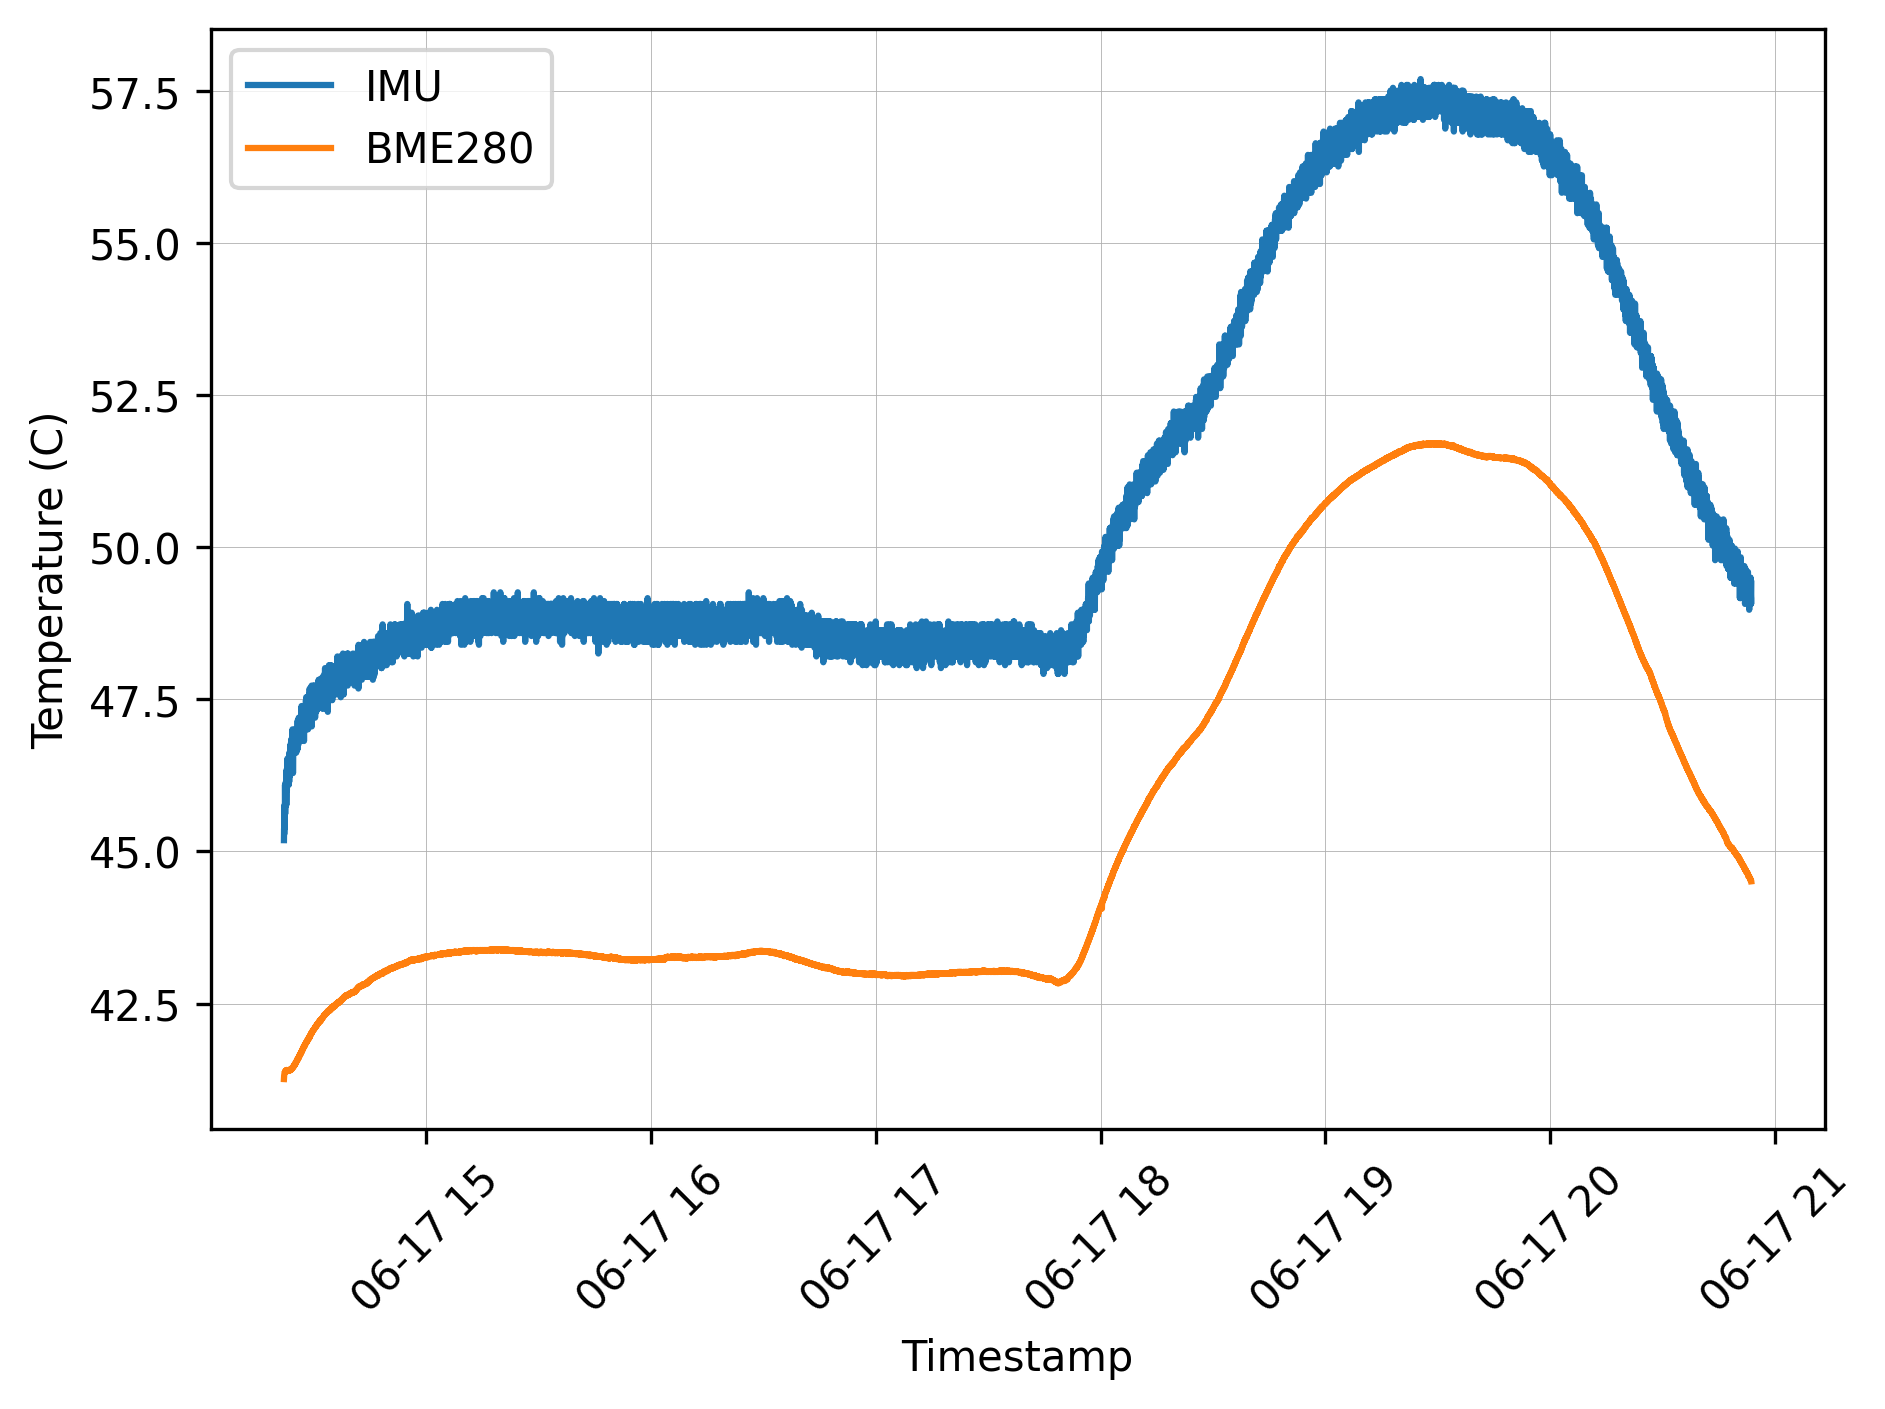
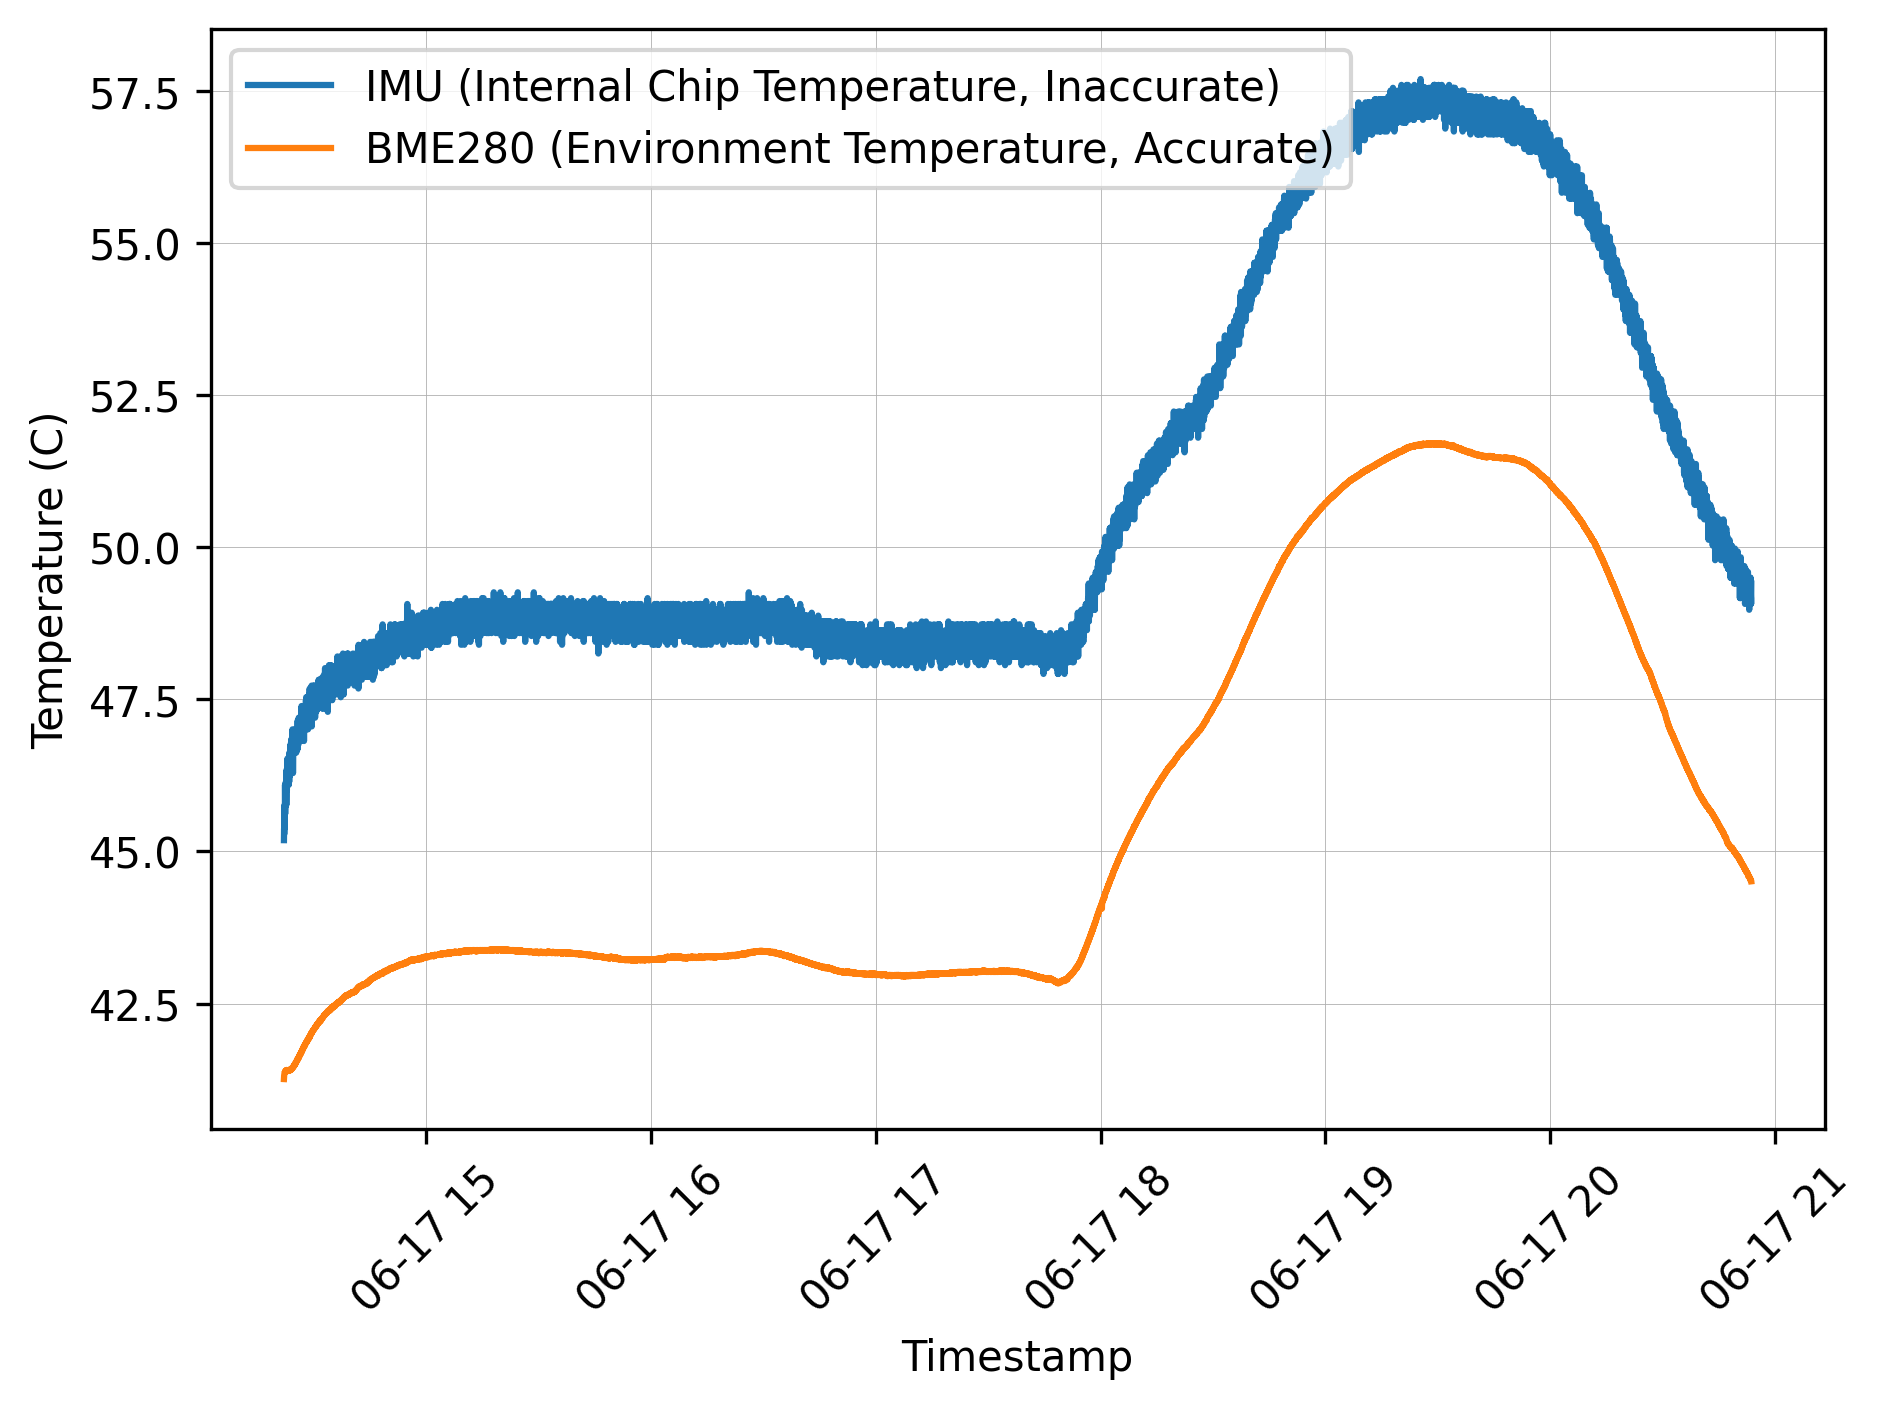
Specify labels for temperature graph

Changed region(s): [[0.2154, 0.0312, 0.7385, 0.1561]]

diff --git a/data/data_plot.py b/data/data_plot.py
@@ -62,8 +62,8 @@ def draw_temperature(data, start=None, end=None, interval=None, output_file=None
     pressure_bme280 = data["BME280 Temperature (C)"][trim_range]
     data_time = data["datetime"][trim_range]
 
-    plt.plot(data_time, pressure_imu, label="IMU")
-    plt.plot(data_time, pressure_bme280, label="BME280")
+    plt.plot(data_time, pressure_imu, label="IMU (Internal Chip Temperature, Inaccurate)")
+    plt.plot(data_time, pressure_bme280, label="BME280 (Environment Temperature, Accurate)")
 
     if interval:
         plt.gca().xaxis.set_major_locator(mdates.SecondLocator(interval=interval))
